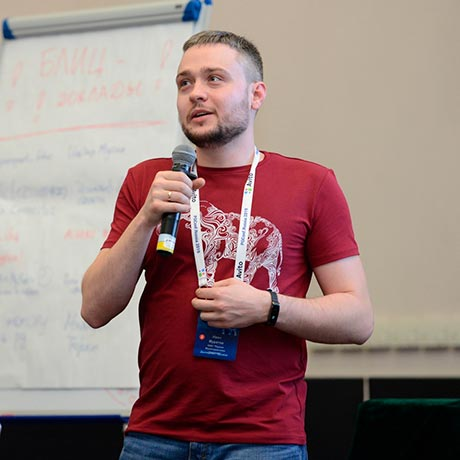
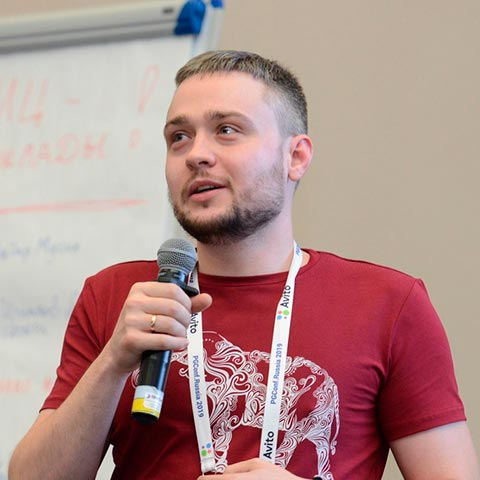
Updated photos and links

diff --git a/pages/index.tsx b/pages/index.tsx
@@ -270,13 +270,13 @@ IndexPage.getInitialProps = () => ({
         {
             name: 'Николай Марченко',
             description: 'Организатор митапов «Krasnodar Frontend»',
-            link: 'https://vk.com/n30n1ck',
+            link: 'https://twitter.com/neonick',
             img: '/nick.jpg'
         },
         {
             name: 'Иван Муратов',
             description: 'Организатор митапов «Krasnodar Backend»',
-            link: 'https://vk.com/binakot',
+            link: 'https://twitter.com/binakot',
             img: '/ivan.jpg'
         },
         {
